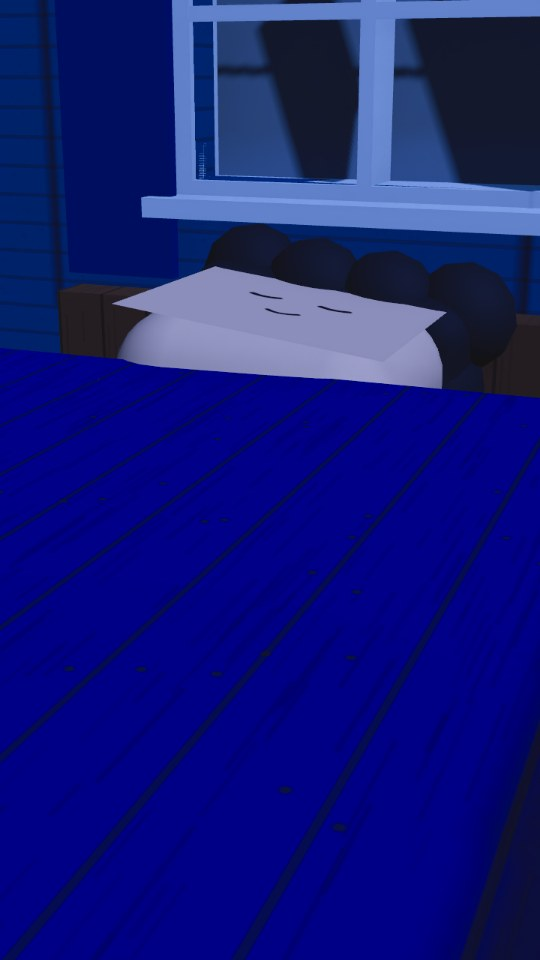
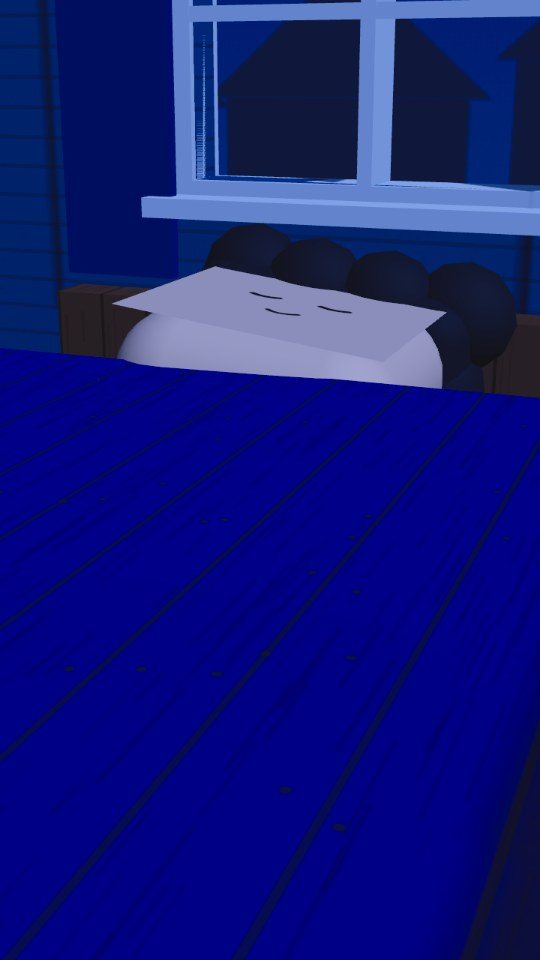
Smile preview: interior sets moved out of a sea boulder (it hid the bodies), bedroom ceiling, no fog on the window shot, contrasting pajamas
Claude-Session: https://claude.ai/code/session_015cysGVtzFBcW8zaH4Ua152

diff --git a/pisa-short/app/src/videos/smile/world.ts b/pisa-short/app/src/videos/smile/world.ts
@@ -13,7 +13,7 @@ import { NOINK } from "./ink";
 import { Pool, Actor, Fx, stage } from "./cast";
 import { Blocky } from "./blocky";
 import {
-  FPS, SHOTS, camAt, ShotDef, V3, SUN_SHOT, SEA_Y, QUAY, PIER, LH, LH_BASE, LH_H, LAMP_Y, LEO_HOUSE, LEO_WIN, ROOM, BED, RWIN, LHIN, smooth, clamp01,
+  FPS, SHOTS, camAt, ShotDef, V3, SUN_SHOT, CLEAR_SHOTS, SEA_Y, QUAY, PIER, LH, LH_BASE, LH_H, LAMP_Y, LEO_HOUSE, LEO_WIN, ROOM, BED, RWIN, LHIN, smooth, clamp01,
 } from "./story";
 
 export const loadKit = async (): Promise<Kit> => ({});
@@ -307,6 +307,7 @@ export class World {
         b.add(uvBox(x0, y0, z0 - 0.04, x1, y1, z1 + 0.04, 1), frame);
       b.add(uvBox(wx - ww / 2 - 0.15, wy - wh / 2 - 0.14, z1, wx + ww / 2 + 0.15, wy - wh / 2 - 0.06, z1 + 0.22, 1), frame); // sill
       for (const sx of [-1, 1]) b.add(new THREE.BoxGeometry(0.5, 1.9, 0.06).translate(wx + sx * (ww / 2 + 0.3), wy - 0.1, z1 + 0.12), lam("sCurtain", () => ({ color: "#3a4a7a" })));
+      const ceilR = new THREE.Mesh(boxGeo(V(rx - W2 - 0.2, H2, rz - D2 - 0.2), V(rx + W2 + 0.2, H2 + 0.15, rz + D2 + 4), 2, true), wallR); ceilR.castShadow = false; ceilR.receiveShadow = false; R.add(ceilR);
       const back = new THREE.Mesh(new THREE.PlaneGeometry(26, 13).translate(wx, 3.2, z0 - 7), new THREE.MeshBasicMaterial({ map: nightBackdrop(), fog: false })); back.layers.set(NOINK); R.add(back);
       b.add(uvBox(wx - 4, -0.2, z0 - 7, wx + 4, -0.05, z0, 1), cob);
       // bed: frame, mattress, pillow, blanket; nightstand, lamp, books, ship model, poster, rug, chair with the raincoat
@@ -407,7 +408,8 @@ export class World {
     su.e.value.set(e[1], e[2], e[3], e[4]); su.stars.value = night ? 1 : 0;
     this.sky.position.copy(cam.position);
     untone(night ? "#26345a" : "#bcdaf2", this.fog.color); this.fog.near = night ? 12 : 80; this.fog.far = night ? 140 : 560;
-    scene.fog = this.fog; scene.background = null;
+    const clear = CLEAR_SHOTS.includes(id);
+    scene.fog = clear ? null : this.fog; scene.background = null; this.sun.castShadow = !clear;
     // moon high over the sea (north-west), its glint on the water
     const moonDir = V(-0.35, 0.42, -0.84).normalize();
     this.moon.visible = night; this.moon.position.copy(cam.position).addScaledVector(moonDir, 900); this.moon.scale.setScalar(2 * 900 * Math.tan(THREE.MathUtils.degToRad(2.4)));

diff --git a/pisa-short/app/src/videos/smile/story.ts b/pisa-short/app/src/videos/smile/story.ts
@@ -29,10 +29,10 @@ export const LAMP: V3 = [LH[0], LAMP_Y, LH[2]];
 export const STREET_Z = 3;           // the main street (x along), houses north (front z -1) and south (front z 7)
 export const LEO_HOUSE: V3 = [0, 0, 11]; // front at z 7, facing -z
 export const LEO_WIN: V3 = [0, 4.6, 7.0]; // his bedroom window (2nd floor, front)
-export const ROOM: V3 = [80, 0, 0];   // his bedroom set (window in the -z wall)
+export const ROOM: V3 = [300, 0, 0];   // his bedroom set (window in the -z wall)
 export const BED: V3 = [ROOM[0] + 0.6, 0, ROOM[2] + 0.4];
 export const RWIN: V3 = [ROOM[0], 1.75, ROOM[2] - 2.5];
-export const LHIN: V3 = [80, 0, 40];  // inside the lighthouse (gears, the shelves of faces)
+export const LHIN: V3 = [300, 0, 60];  // inside the lighthouse (gears, the shelves of faces)
 /** round obstacles on the ground [x, z, radius] that figures are kept out of (well, crates, barrels, lamp posts, net racks) */
 export const OBST: [number, number, number][] = [[-2, -3.5, 1.25], [5, -6, 0.6], [5.8, -6.4, 0.6], [5.3, -7.1, 0.6], [-6, -7, 0.45], [-5.2, -7.4, 0.45],
   [-20, 0, 0.2], [-6.5, 0, 0.2], [6.5, 0, 0.2], [20, 0, 0.2], [-14, 6.4, 0.2], [14, 6.4, 0.2], [-4.5, -8.2, 0.2],
@@ -73,4 +73,6 @@ export const camAt = (id: number, f: number): Cam => {
 };
 /** per-shot light direction overrides (camera-relative az, elevation) */
 export const SUN_SHOT: Record<number, { az?: number; el?: number }> = { 2: { az: 140, el: 30 }, 3: { az: 150, el: 30 } };
+/** shots with no fog and no moon shadows (the faces at the window must read clearly, bodies included) */
+export const CLEAR_SHOTS = [7];
 export const dofAt = (_f: number) => ({ cInf: 0, focus: undefined as undefined | ((f: number) => V3) });

diff --git a/pisa-short/app/src/videos/smile/cast.ts b/pisa-short/app/src/videos/smile/cast.ts
@@ -184,7 +184,7 @@ const TOWN: Outfit[] = [
   { jacket: "#5a6a7a", stripes: "plain", pants: "#2e3a52", boots: "#2a2420", hat: "hair", hairStyle: "bald", hair: "#8a8a8a", beard: "#d8d8d8", skin: SK[1], build: "stout" },                   // old sailor
   { jacket: "#e98a6e", pants: "#3b3f52", boots: "#f4f1ea", hat: "hair", hairStyle: "pigtails", hair: "#3a2a1e", dress: "#e98a6e", build: "kid", skin: SK[3], lashes: true },                     // girl
 ];
-const PJC = ["#8aa8d8", "#d8a8c8", "#a8d8b8", "#e8e0b0"];
+const PJC = ["#c8463a", "#3a9a5a", "#e0a82a", "#8a4ab0"];
 const PJ = (o: Outfit, k: number): Outfit => ({ ...o, jacket: PJC[k % 4], stripes: "stripe", pants: PJC[k % 4], dress: o.dress ? PJC[k % 4] : undefined, apron: undefined, hat: o.hat === "chef" || o.hat === "cap" ? "hair" : o.hat, hairStyle: o.hat === "chef" || o.hat === "cap" ? "side" : o.hairStyle, waist: undefined, buttons: undefined, boots: "#5a4a6a" });
 const KEEPER: Outfit = { jacket: "#2f4a3a", stripes: "plain", pants: "#3a3a42", boots: "#2a2420", hat: "cap", cap: "#24365e", beard: "#e8e4dc", skin: SK[1], build: "stout", raincoat: "#2f4a3a", glasses: "#8a5a34" };
 
